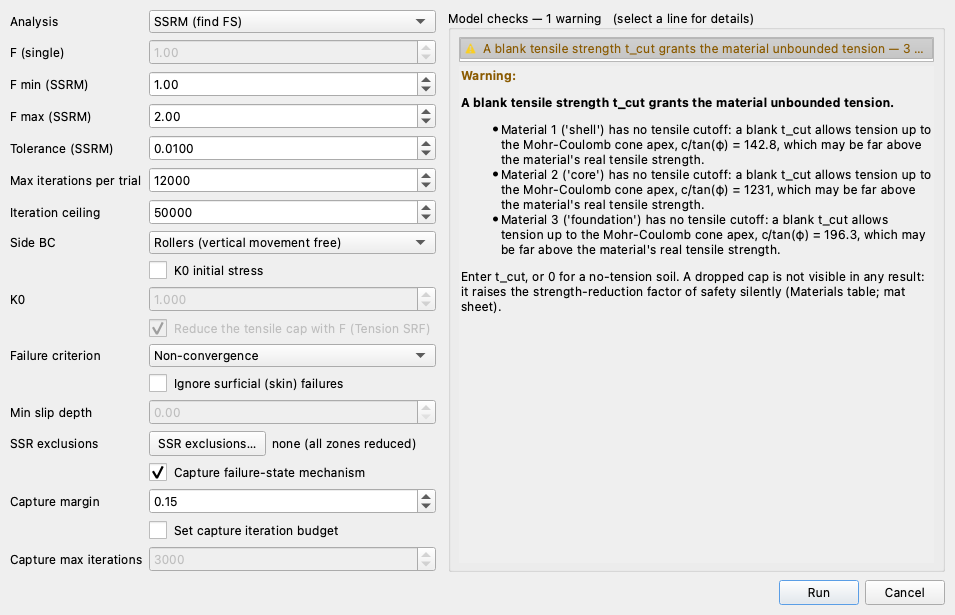
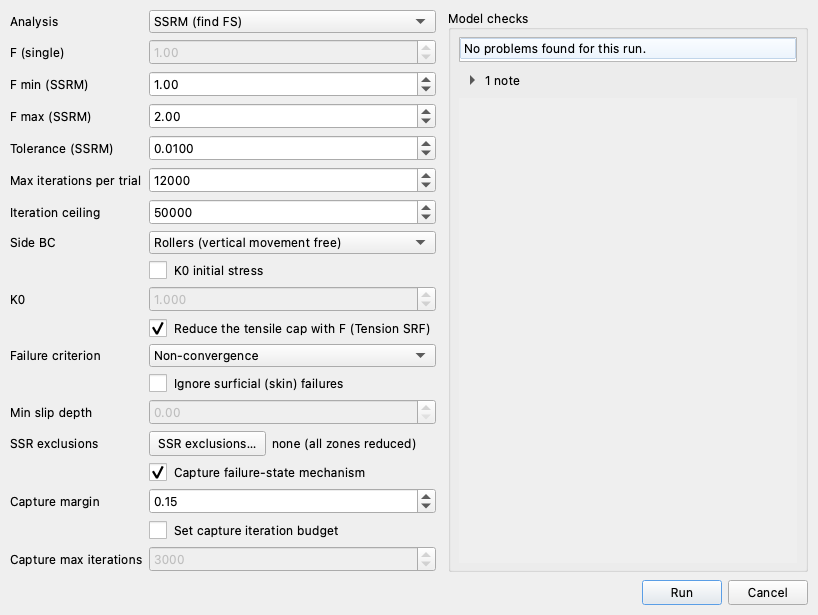
tutorial(combo01): the dam's cutoff is declared, so the Run FEM panel is clean
The page's Run FEM step read the dialog's model checks off a model that left
t_cut blank: one warning, naming the Mohr-Coulomb apex each material could carry
tension up to (142.8 psf on the shell), with the Tension SRF checkbox dimmed
because nothing on the file gave it a cap to reduce. The workbook now declares
t_cut = 0 on all three materials, so the panel says "No problems found for this
run" over a single folded note -- the main sheet's blank Tension SRF cell, which
means the cap IS divided by the trial factor -- and the checkbox is live.

The step says what the model declares and what the run is checked against, and
nothing about the two cutoff settings agreeing: they do agree on this dam and on
this seepage field, but that is a measurement on one model, not a rule a reader
could carry to the next one.

The capture is re-taken through tools/capture_tutorial_screenshots.py combo01.
Of the page's five shots only Run FEM moved: Build Mesh runs no checks, and the
materials, Run Seepage and Run LEM shots are photographed on the LEM and seepage
bands, which do not show t_cut and do not evaluate a finite element rule.

The page's four locks are unmoved. The strength reduction reproduces 1.2461 from
[1.2422, 1.2500] after seven bisection steps, which is the number the page and its
tag already carry.

Claude-Session: https://claude.ai/code/session_01XjjT2aBxw8gY7EFdpoUcpj

diff --git a/docs/tutorials/combo01_seepage_stability.md b/docs/tutorials/combo01_seepage_stability.md
@@ -271,15 +271,15 @@ immediately.
 
 ![Run FEM, at its defaults](images/combo01_studio_run_fem.png)
 
-**Model checks — 1 warning**, and **Run** is enabled. The warning is about
-`t_cut`, the tensile cutoff left blank on all three materials, which lets each
-one carry tension up to its Mohr-Coulomb apex; in
+**Model checks** reports **No problems found for this run**, with one note
+folded beneath it, and **Run** is enabled. The note is about **Tension SRF**: the
+main sheet leaves that cell blank, so the engine default applies and the tensile
+cap is reduced by the trial factor along with `c` and `tan φ`. The checkbox is
+live rather than dimmed because this model declares a cap — `t_cut` = 0 on the
+shell, the core and the foundation, three materials that carry no tension at all
+— and a model with no cap anywhere gives it nothing to act on; in
 [FEM-1](fem01_strength_reduction.md#running-the-strength-reduction) we work
-through what that cap is and when it matters. The column is left blank on this
-model, and on this dam that choice does not move the answer: the solved field
-leaves the free downstream face at zero pore pressure, so no part of the section
-needs tension to stay in equilibrium, and a zero cutoff entered on all three
-materials returns the same factor of safety. What the run gives is checked
+through what that cutoff is and when it matters. What the run gives is checked
 against Spencer's 1.257 on the same section.
 
 Everything else opens on the defaults this run wants. **Analysis** is **SSRM
